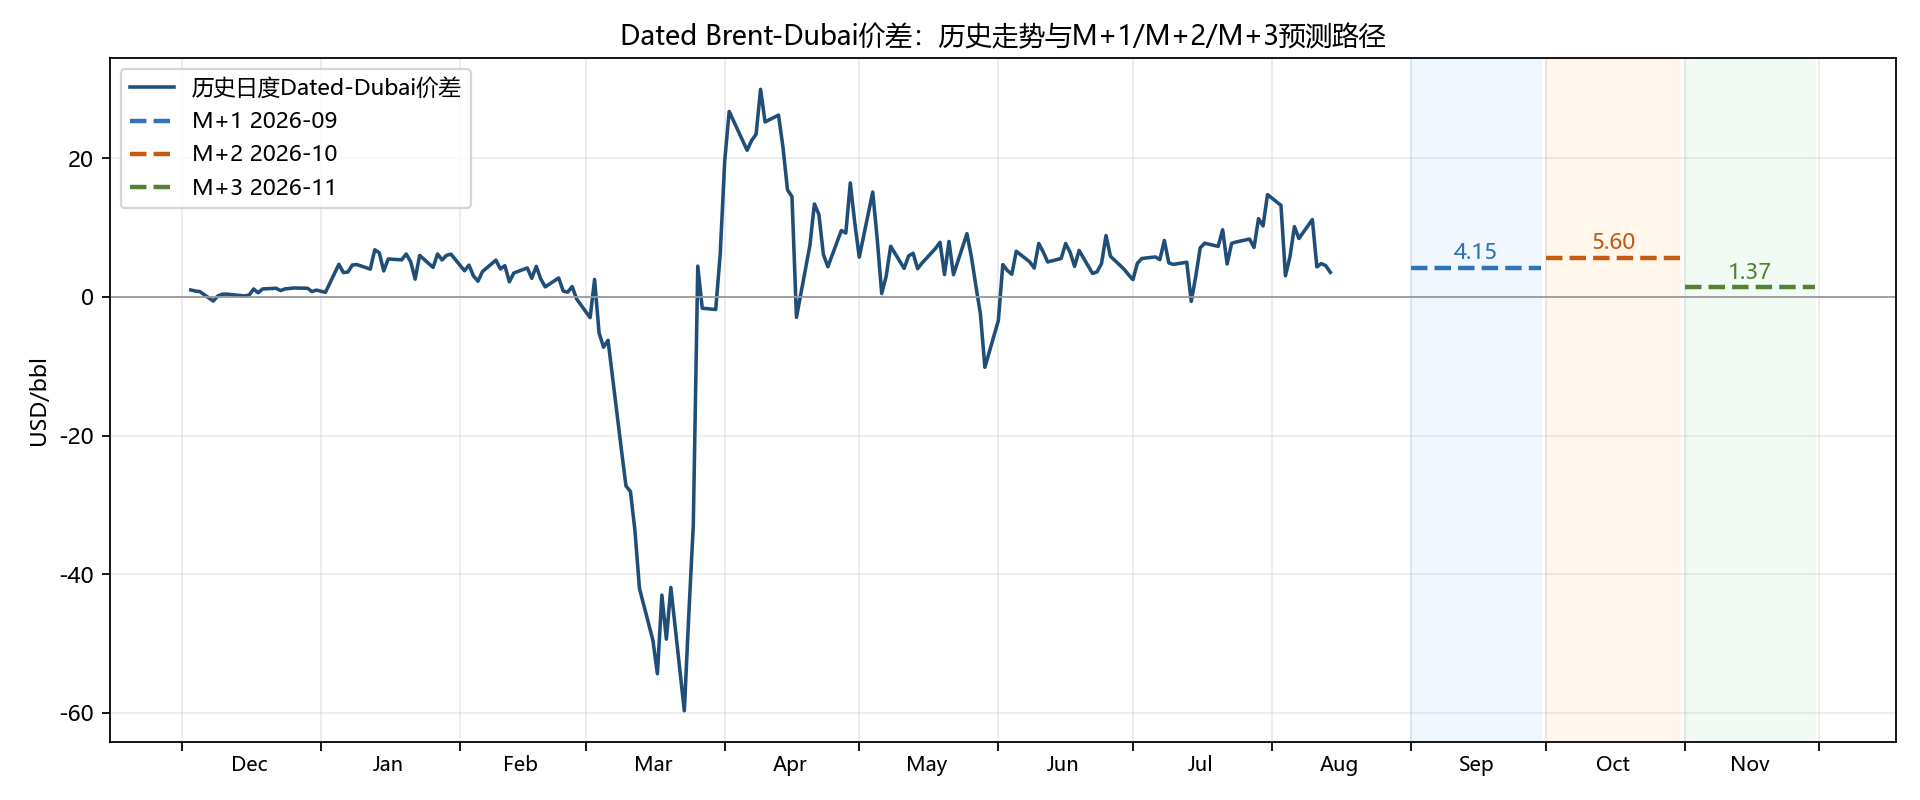
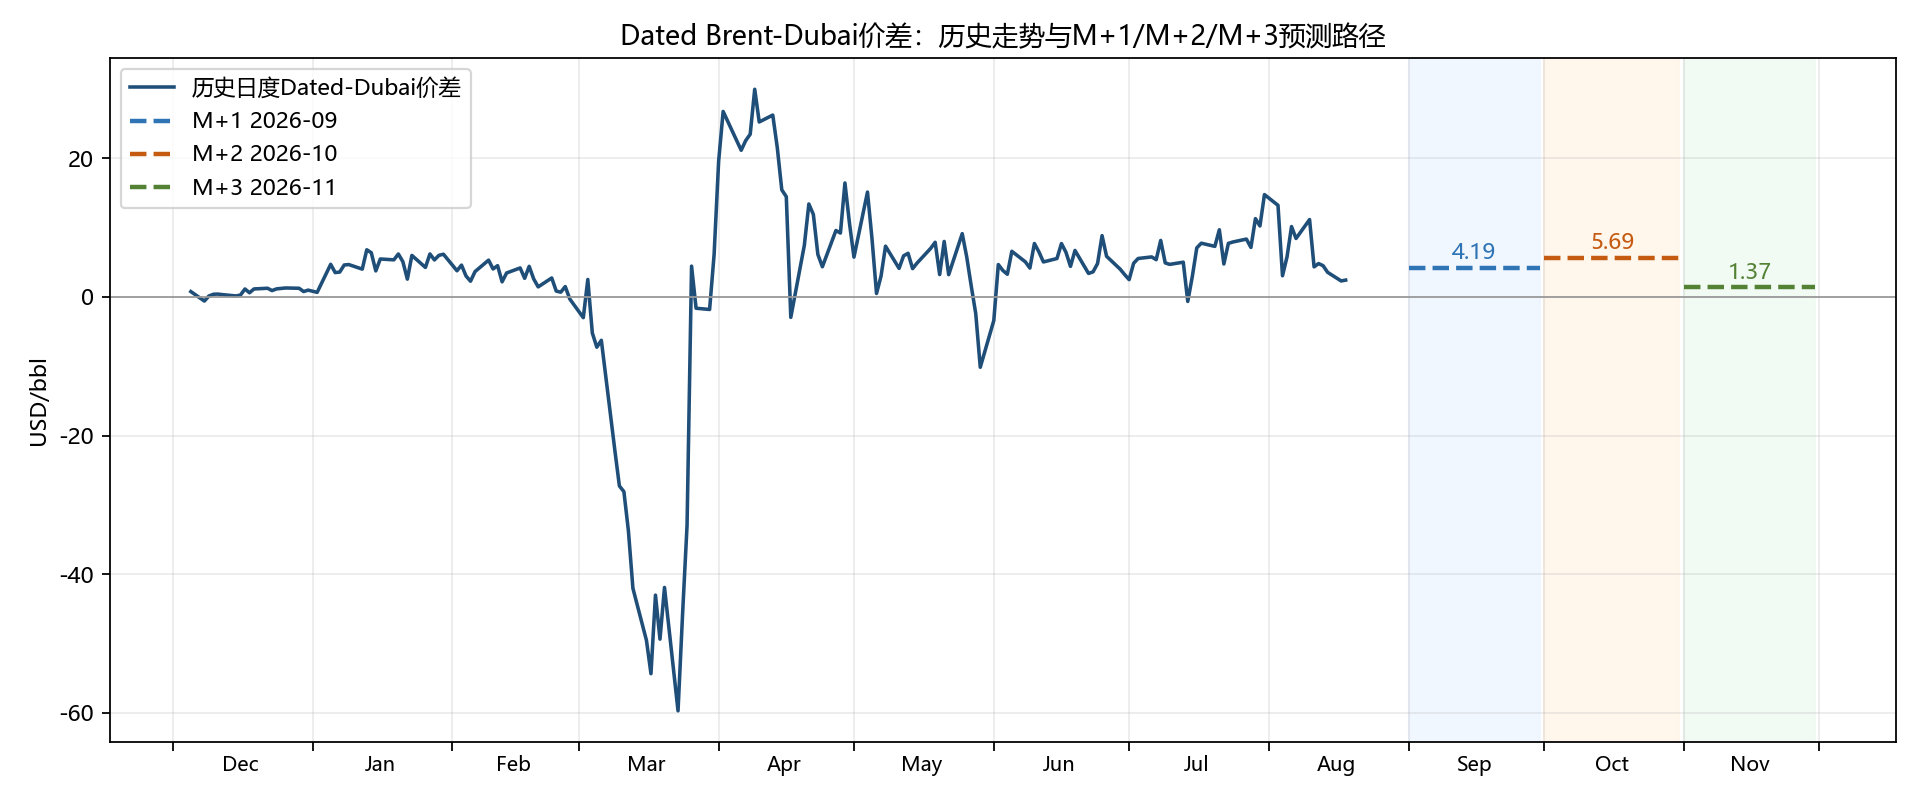
Update BD report 2026-08-19 10:30

diff --git a/index.html b/index.html
@@ -20,7 +20,7 @@ img{max-width:100%;border:1px solid #ddd}.note{color:#555}
 </head><body>
 <h1>Dated-Dubai价差中期预测模型报告</h1>
 <h2>1. 核心结论</h2>
-<div class='grid'><div class='kpi'>数据日期<b>2026-08-14</b></div><div class='kpi'>Dated Brent<b>92.055</b></div><div class='kpi'>Dubai<b>88.500</b></div><div class='kpi'>Dated-Dubai价差<b>3.555</b></div></div>
+<div class='grid'><div class='kpi'>数据日期<b>2026-08-18</b></div><div class='kpi'>Dated Brent<b>92.720</b></div><div class='kpi'>Dubai<b>90.290</b></div><div class='kpi'>Dated-Dubai价差<b>2.430</b></div></div>
 <table class="dataframe data-table">
   <thead>
     <tr style="text-align: right;">
@@ -39,8 +39,8 @@ img{max-width:100%;border:1px solid #ddd}.note{color:#555}
     <tr>
       <td>2026-09</td>
       <td>M+1</td>
-      <td>4.1524</td>
-      <td>0.5974</td>
+      <td>4.1873</td>
+      <td>1.7573</td>
       <td>上升</td>
       <td>ExtraTrees</td>
       <td>core</td>
@@ -50,8 +50,8 @@ img{max-width:100%;border:1px solid #ddd}.note{color:#555}
     <tr>
       <td>2026-10</td>
       <td>M+2</td>
-      <td>5.6010</td>
-      <td>2.0460</td>
+      <td>5.6883</td>
+      <td>3.2583</td>
       <td>上升</td>
       <td>ExtraTrees</td>
       <td>enhanced</td>
@@ -61,8 +61,8 @@ img{max-width:100%;border:1px solid #ddd}.note{color:#555}
     <tr>
       <td>2026-11</td>
       <td>M+3</td>
-      <td>1.3720</td>
-      <td>-2.1830</td>
+      <td>1.3714</td>
+      <td>-1.0586</td>
       <td>下降</td>
       <td>ExtraTrees</td>
       <td>enhanced</td>
@@ -72,10 +72,10 @@ img{max-width:100%;border:1px solid #ddd}.note{color:#555}
   </tbody>
 </table>
 <p>方向准确率为历史滚动回测结果。</p>
-<p>最新Dated-Dubai价差为 3.555 USD/bbl；未来预测方向为：M+1 2026-09 上升、M+2 2026-10 上升、M+3 2026-11 下降。</p>
+<p>最新Dated-Dubai价差为 2.430 USD/bbl；未来预测方向为：M+1 2026-09 上升、M+2 2026-10 上升、M+3 2026-11 下降。</p>
 <p>当前三个预测月份中，M+1 使用 ExtraTrees + core，M+2 使用 ExtraTrees + enhanced，M+3 使用 ExtraTrees + enhanced。</p>
 <h2>2. 价差走势与中期预测</h2>
-<img src='bd_m1_m3_monthly_forecast_chart.png?v=20260817103005' alt='M1-M3月均预测图'>
+<img src='bd_m1_m3_monthly_forecast_chart.png?v=20260819103005' alt='M1-M3月均预测图'>
 <p class='note'>实线为最近历史日度Dated-Dubai价差；水平虚线分别表示M+1/M+2/M+3完整自然月平均Dated-Dubai价差预测。价差上升表示Dated Brent相对Dubai走强；价差下降表示Dubai相对Dated Brent走强。</p>
 <h2>3. 回测表现摘要</h2>
 <table class="dataframe data-table">
@@ -96,8 +96,8 @@ img{max-width:100%;border:1px solid #ddd}.note{color:#555}
       <td>M+1</td>
       <td>ExtraTrees</td>
       <td>core</td>
-      <td>1.9874</td>
-      <td>2.6207</td>
+      <td>1.9873</td>
+      <td>2.6205</td>
       <td>51.10%</td>
     </tr>
     <tr>
@@ -139,7 +139,7 @@ img{max-width:100%;border:1px solid #ddd}.note{color:#555}
       <td>1</td>
       <td>沙特中质/轻质OSP价差</td>
       <td>OSP结构</td>
-      <td>0.291799</td>
+      <td>0.277738</td>
       <td>反映沙特中质油和轻质油OSP相对强弱</td>
     </tr>
     <tr>
@@ -155,7 +155,7 @@ img{max-width:100%;border:1px solid #ddd}.note{color:#555}
       <td>3</td>
       <td>核心海湾产量</td>
       <td>中东供应</td>
-      <td>0.147342</td>
+      <td>0.161404</td>
       <td>反映核心海湾原油产量变化</td>
     </tr>
     <tr>
@@ -259,7 +259,7 @@ img{max-width:100%;border:1px solid #ddd}.note{color:#555}
       <td>6</td>
       <td>OPEC剩余产能</td>
       <td>OPEC供应</td>
-      <td>0.072236</td>
+      <td>0.072611</td>
       <td>反映OPEC可释放供应弹性</td>
     </tr>
     <tr>
@@ -267,7 +267,7 @@ img{max-width:100%;border:1px solid #ddd}.note{color:#555}
       <td>7</td>
       <td>核心海湾产量</td>
       <td>中东供应</td>
-      <td>0.066302</td>
+      <td>0.065927</td>
       <td>反映核心海湾原油产量变化</td>
     </tr>
     <tr>

diff --git a/README_PUBLISH.md b/README_PUBLISH.md
@@ -1,5 +1,5 @@
 # BD GitHub Pages publish package
-Generated at: 2026-08-17 10:30:05
+Generated at: 2026-08-19 10:30:05
 
 Files:
 - index.html: formal report entry
